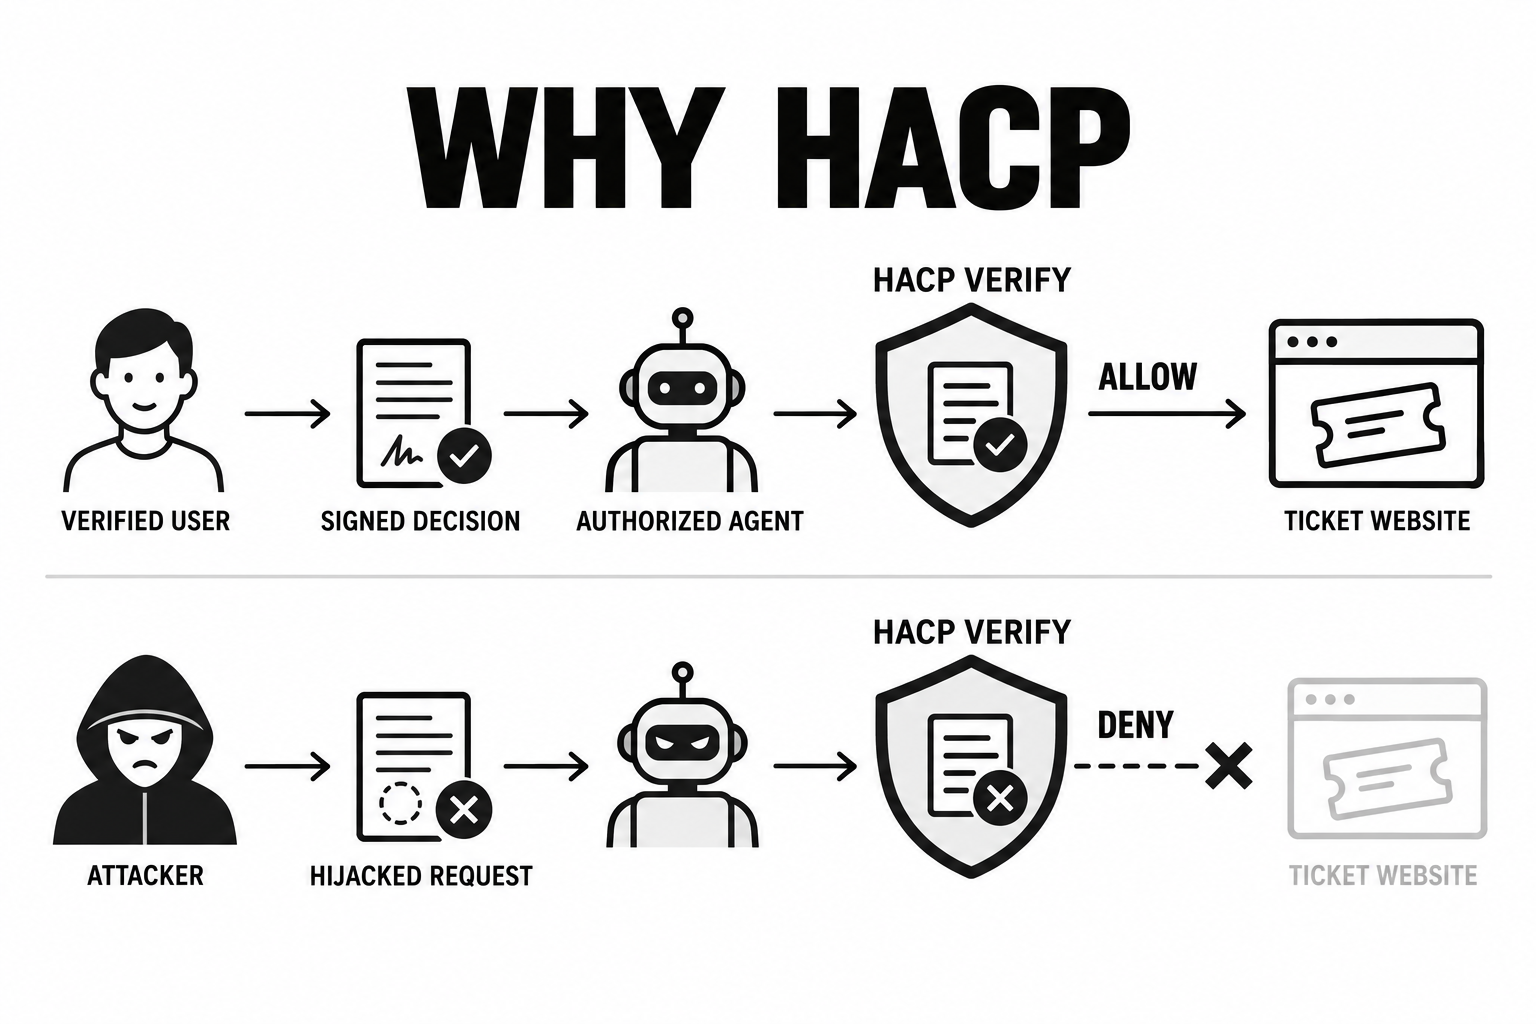
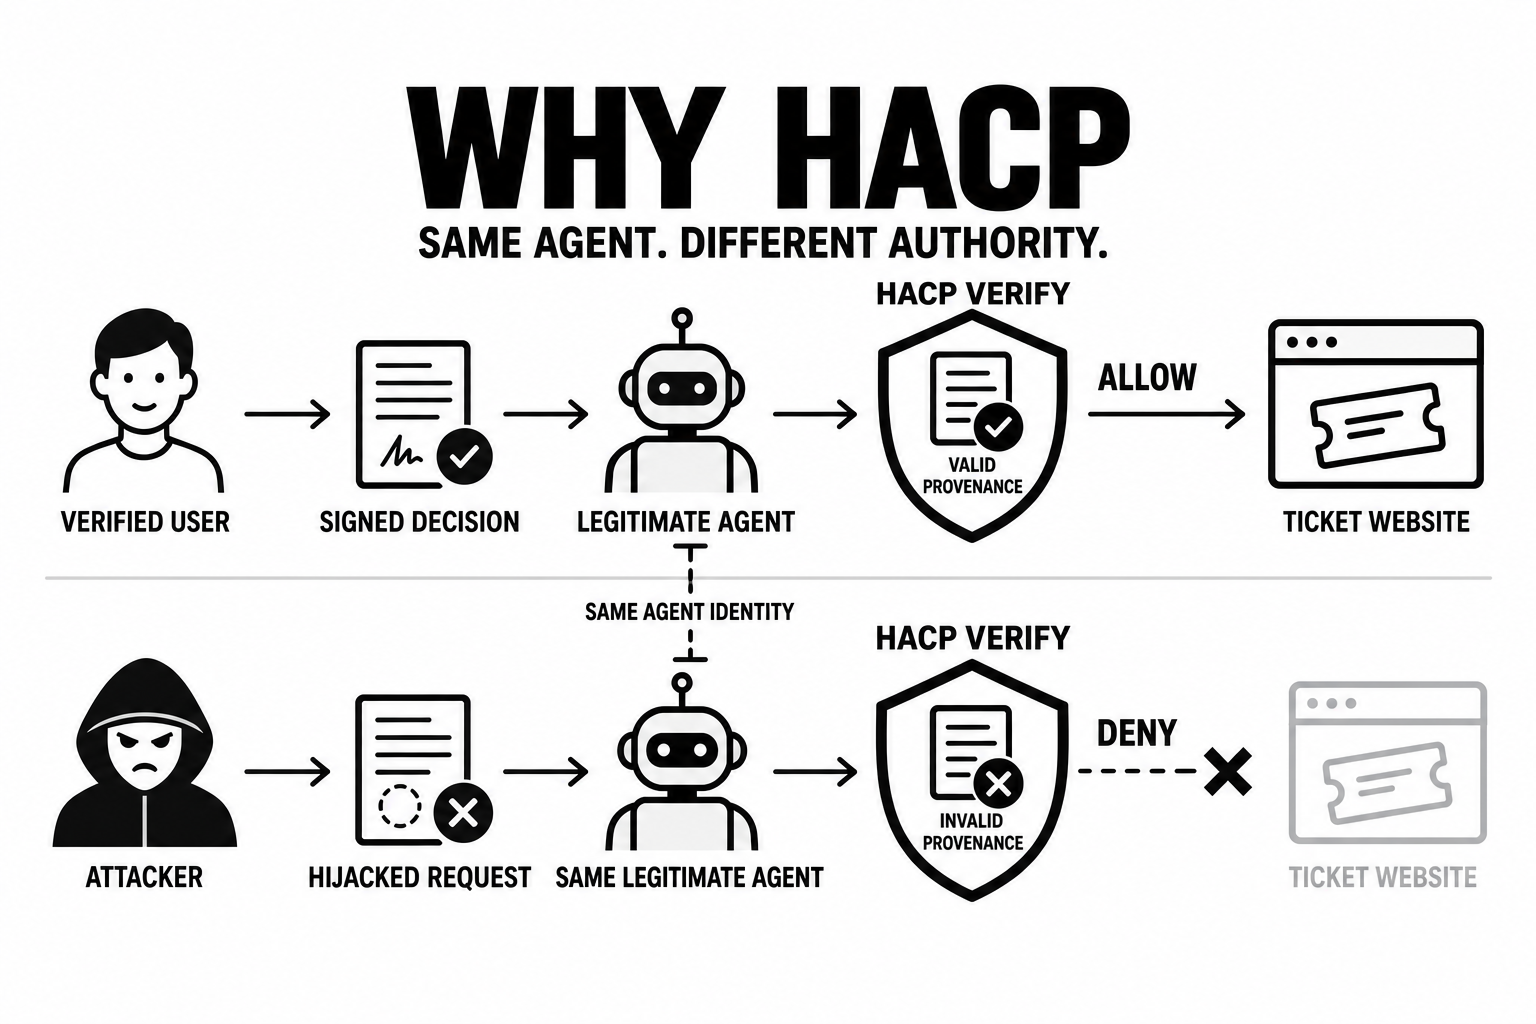
docs: clarify same-agent provenance example

diff --git a/README.md b/README.md
@@ -44,7 +44,7 @@ Today, a website usually sees an agent as just another HTTP client. Consider an 
 
 HACP gives the legitimate request a verifiable chain: Alice's reviewed decision, the exact limits she approved, the identity of the agent she authorized, and the concrete booking action the agent proposes. The ticket website verifies that chain and applies its own policy before creating the reservation. It can accept a properly authorized booking, request human review when the evidence is insufficient, or deny an anonymous, altered, expired, replayed, or out-of-scope request. HACP does not ask the website to trust an agent's claim that its intentions are good; it gives the website evidence it can verify and control.
 
-![Why HACP: a verified user's signed decision is allowed, while an attacker's hijacked request is denied](docs/assets/why-hacp.png)
+![Why HACP: the same legitimate agent is allowed with valid human provenance and denied when an attacker supplies a hijacked request](docs/assets/why-hacp.png)
 
 [Run the live ticket-booking demonstration](https://hacp-ticket-demo-dmy3rfwd7q-uw.a.run.app) to compare a valid USD 542 booking with wrong-identity, over-budget, tampered, and replayed Agent requests. Every case returns a signed Receipt, and the complete protocol objects and public keys are inspectable.
 
